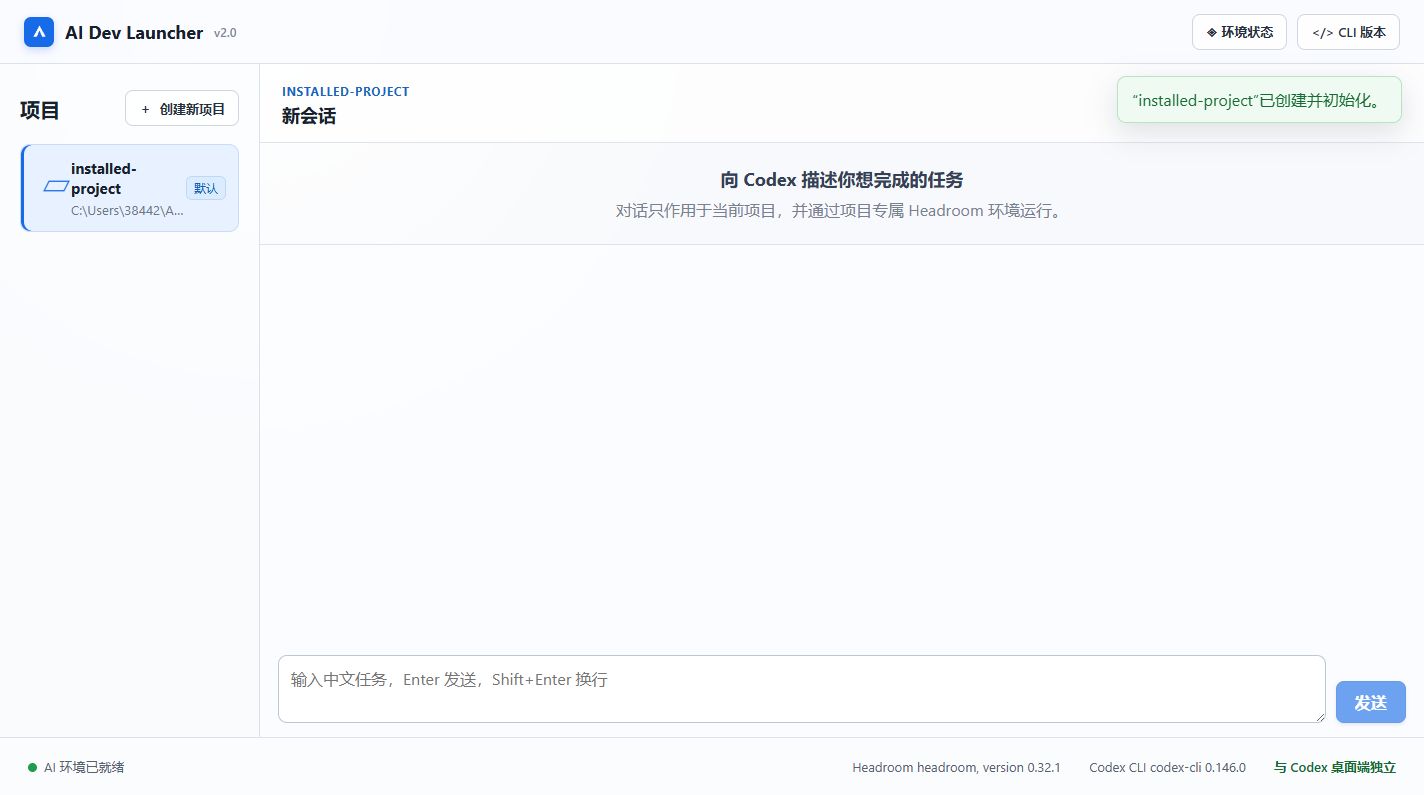
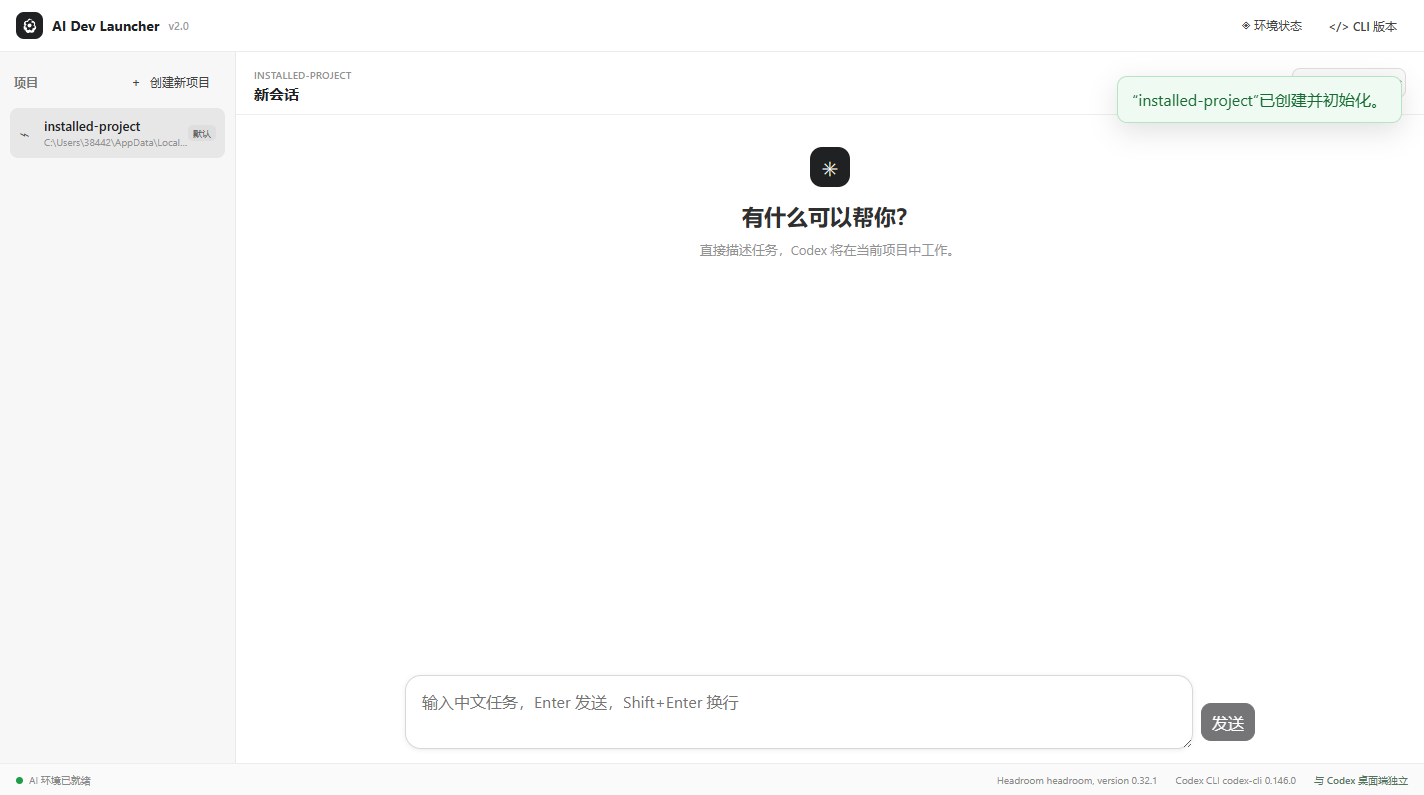
style: simplify workspace with Codex-inspired design

diff --git a/desktop/src/styles.css b/desktop/src/styles.css
@@ -297,3 +297,66 @@ h1, h2, p { margin-top: 0; }
 .stats-panel > div > span { color: #687586; }
 .stats-panel > div > div { margin-top: 10px; padding: 12px; display: grid; gap: 3px; border: 1px solid #dce3ec; border-radius: 8px; background: white; }
 .stats-panel small { color: #778291; }
+
+/* Codex-inspired compact workspace */
+:root { color: #202123; background: #f7f7f8; }
+body { min-width: 900px; min-height: 560px; }
+.app-shell { grid-template-rows: 52px minmax(0, 1fr) 32px; background: #fff; }
+.app-header { padding: 0 16px; background: #fff; border-bottom-color: #ececec; }
+.brand { gap: 9px; font-size: 14px; }
+.brand small { color: #9b9b9b; font-size: 11px; }
+.app-icon { width: 27px; height: 27px; border-radius: 8px; background: #202123; box-shadow: none; }
+.app-icon svg { width: 19px; fill: #fff; }
+.app-header nav { gap: 4px; }
+.button { min-height: 38px; border-radius: 9px; padding: 0 14px; font-weight: 500; }
+.button.primary { color: #fff; background: #202123; border-color: #202123; box-shadow: none; }
+.button.primary:hover:not(:disabled) { background: #353536; }
+.button.secondary { color: #424242; background: transparent; border-color: transparent; }
+.button.secondary:hover:not(:disabled) { background: #f2f2f2; border-color: transparent; }
+.button.compact { min-height: 32px; padding: 0 10px; font-size: 12px; }
+.workspace { grid-template-columns: 236px minmax(0, 1fr); }
+.project-sidebar { padding: 14px 10px; border-right-color: #e9e9e9; background: #f7f7f8; }
+.sidebar-heading { margin-bottom: 10px; padding: 0 4px; }
+.sidebar-heading h2 { font-size: 12px; color: #777; font-weight: 600; }
+.sidebar-heading .button { font-size: 12px; }
+.project-list { gap: 2px; }
+.project-row { min-height: 50px; grid-template-columns: 25px minmax(0, 1fr) auto; padding: 7px 9px; border: 0; border-radius: 8px; }
+.project-row:hover { background: #ededee; border-color: transparent; }
+.project-row.selected { background: #e7e7e8; border-color: transparent; box-shadow: none; }
+.folder-icon { color: #555; font-size: 18px; transform: none; }
+.project-copy { gap: 1px; }
+.project-copy strong { font-size: 13px; font-weight: 550; }
+.project-copy small { color: #929292; font-size: 10px; }
+.badge { padding: 2px 5px; color: #666; background: #dedede; border: 0; border-radius: 5px; font-size: 9px; }
+.chat-workspace { background: #fff; }
+.conversation-header { min-height: 58px; padding: 10px 18px; border-bottom-color: #ededed; background: #fff; }
+.conversation-header h2 { margin-top: 1px; font-size: 15px; font-weight: 600; }
+.workspace-kicker { color: #929292; font-size: 10px; font-weight: 600; letter-spacing: .02em; }
+.conversation-meta { gap: 12px; color: #8a8a8a; font-size: 11px; }
+.permission-control label { color: #777; font-size: 11px; }
+.permission-control select { height: 30px; border-color: #dedede; border-radius: 8px; color: #333; background: #fafafa; }
+.risk-banner { padding: 7px 18px; color: #8a5a16; background: #fffaf0; border-bottom-color: #f1e5ca; font-size: 11px; }
+.message-list { width: 100%; padding: 32px max(24px, calc((100% - 820px) / 2)); gap: 22px; }
+.chat-empty { color: #929292; gap: 10px; }
+.chat-empty strong { color: #2f2f2f; font-size: 22px; font-weight: 550; }
+.chat-empty span { font-size: 13px; }
+.chat-mark { width: 40px; height: 40px; margin: 0 auto 4px; display: grid; place-items: center; border-radius: 12px; color: white; background: #202123; font-size: 20px; }
+.message { width: min(100%, 820px); max-width: 820px; }
+.message > span { color: #8d8d8d; font-size: 10px; font-weight: 600; }
+.message pre { padding: 0; border: 0; border-radius: 0; background: transparent; color: #292929; font-size: 14px; line-height: 1.65; }
+.message.user { width: auto; max-width: min(70%, 680px); align-self: flex-end; }
+.message.user pre { padding: 10px 14px; color: #292929; background: #f1f1f1; border: 0; border-radius: 16px; }
+.message.tool pre { padding: 12px 14px; border: 1px solid #e4e4e4; border-radius: 10px; background: #f7f7f7; font-size: 12px; }
+.message.status pre { padding: 4px 9px; background: #f3f3f3; color: #777; border-radius: 8px; }
+.composer { padding: 10px max(24px, calc((100% - 850px) / 2)) 14px; gap: 8px; border-top: 0; background: linear-gradient(transparent, #fff 18%); }
+.composer textarea { min-height: 54px; max-height: 150px; padding: 15px 16px; border-color: #d8d8d8; border-radius: 16px; background: #fff; box-shadow: 0 1px 5px rgba(0,0,0,.08); }
+.composer textarea:focus { border-color: #a9a9a9; box-shadow: 0 1px 7px rgba(0,0,0,.1); }
+.composer .button { width: 54px; min-height: 38px; margin-bottom: 8px; padding: 0 10px; border-radius: 10px; }
+.status-bar { grid-template-columns: 1fr auto auto auto; gap: 18px; padding: 0 16px; background: #fafafa; border-top-color: #ededed; color: #8a8a8a; font-size: 10px; }
+.status-bar strong { color: #52745c; font-weight: 500; }
+.status { width: 7px; height: 7px; margin-right: 6px; }
+.dialog-backdrop { background: rgba(0,0,0,.25); backdrop-filter: blur(2px); }
+.dialog { border-color: #dedede; border-radius: 14px; box-shadow: 0 20px 60px rgba(0,0,0,.18); }
+.dialog header, .dialog footer { border-color: #ededed; }
+.dialog input:focus { border-color: #777; box-shadow: 0 0 0 3px rgba(0,0,0,.07); }
+.toast { border-radius: 10px; box-shadow: 0 8px 28px rgba(0,0,0,.12); }

diff --git a/desktop/src/components/ChatWorkspace.vue b/desktop/src/components/ChatWorkspace.vue
@@ -75,7 +75,7 @@ onUnmounted(() => dispose?.());
   <section class="chat-workspace">
     <div class="conversation"><header class="conversation-header"><div><span class="workspace-kicker">{{ project.name }}</span><h2>{{ active?.name }}</h2></div><div class="conversation-meta"><span>模型：Codex 默认</span><div class="permission-control"><label>权限<select v-model="permission" :disabled="!!runningTask"><option value="standard">标准模式</option><option value="full">完全访问</option></select></label></div></div></header>
       <div v-if="permission === 'full'" class="risk-banner">完全访问允许 Codex 操作项目外文件且不询问审批，请确认当前任务可信。</div>
-      <div class="message-list" data-testid="message-list"><div v-if="!active?.messages.length" class="chat-empty"><strong>向 Codex 描述你想完成的任务</strong><span>对话只作用于当前项目，并通过项目专属 Headroom 环境运行。</span></div><article v-for="message in active?.messages ?? []" :key="message.id" :class="['message', message.role]"><span>{{ message.role === "user" ? "你" : message.role === "assistant" ? "Codex" : message.role === "tool" ? "工具" : "状态" }}</span><pre>{{ message.text }}</pre></article></div>
+      <div class="message-list" data-testid="message-list"><div v-if="!active?.messages.length" class="chat-empty"><div class="chat-mark">✳</div><strong>有什么可以帮你？</strong><span>直接描述任务，Codex 将在当前项目中工作。</span></div><article v-for="message in active?.messages ?? []" :key="message.id" :class="['message', message.role]"><span>{{ message.role === "user" ? "你" : message.role === "assistant" ? "Codex" : message.role === "tool" ? "工具" : "状态" }}</span><pre>{{ message.text }}</pre></article></div>
       <div v-if="error" class="chat-error">{{ error }}</div>
       <footer class="composer"><textarea v-model="prompt" data-testid="chat-prompt" placeholder="输入中文任务，Enter 发送，Shift+Enter 换行" @keydown.enter.exact.prevent="send"></textarea><button v-if="runningTask" class="button danger solid" data-testid="stop-chat" @click="stop">停止</button><button v-else class="button primary" data-testid="send-chat" :disabled="runtime?.status !== 'ready' || !prompt.trim()" @click="send">发送</button></footer>
     </div>

diff --git a/desktop/src/components/AppIcon.vue b/desktop/src/components/AppIcon.vue
@@ -1,7 +1,7 @@
 <template>
   <span class="app-icon" aria-hidden="true">
     <svg viewBox="0 0 24 24">
-      <path d="M5 18 12 5l7 13h-3.8L12 11l-3.2 7H5Z" />
+      <path d="M12 3.25a3.6 3.6 0 0 1 3.52 2.85 3.6 3.6 0 0 1 3.23 5.4 3.6 3.6 0 0 1-.28 6.28 3.6 3.6 0 0 1-5.68 2.86 3.6 3.6 0 0 1-5.94-2.43 3.6 3.6 0 0 1-1.14-6.18A3.6 3.6 0 0 1 9.2 6.1 3.6 3.6 0 0 1 12 3.25Zm0 2a1.6 1.6 0 0 0-1.55 1.2l-.3 1.15-1.17-.2a1.6 1.6 0 0 0-1.52 2.65l.8.88-.9.78a1.6 1.6 0 0 0 .5 2.7l1.12.4-.28 1.16a1.6 1.6 0 0 0 2.58 1.6l.9-.77.78.9a1.6 1.6 0 0 0 2.82-1.05l-.01-1.2 1.2-.02a1.6 1.6 0 0 0 .98-2.87l-.97-.7.68-.98a1.6 1.6 0 0 0-1.7-2.43l-1.16.3-.32-1.16A1.6 1.6 0 0 0 12 5.25Zm0 4.15a2.6 2.6 0 1 1 0 5.2 2.6 2.6 0 0 1 0-5.2Z" />
     </svg>
   </span>
 </template>

diff --git a/desktop/tests/App.test.ts b/desktop/tests/App.test.ts
@@ -52,7 +52,7 @@ describe("App v2 Phase 1", () => {
     vi.mocked(window.launcher.listProjects).mockResolvedValue({ projects: [project], default_project: "my-app" });
     const view = await render();
     expect(view.host.textContent).toContain("与 Codex 桌面端独立");
-    expect(view.host.textContent).toContain("向 Codex 描述你想完成的任务");
+    expect(view.host.textContent).toContain("有什么可以帮你？");
     expect(view.host.textContent).toContain("标准模式");
     view.unmount();
   });

diff --git a/desktop/src/components/ProjectList.vue b/desktop/src/components/ProjectList.vue
@@ -31,7 +31,7 @@ defineEmits<{
         role="listitem"
         @click="$emit('select', project)"
       >
-        <span class="folder-icon" aria-hidden="true">▱</span>
+        <span class="folder-icon" aria-hidden="true">⌁</span>
         <span class="project-copy">
           <strong>{{ project.name }}</strong>
           <small>{{ project.path }}</small>

diff --git a/tests/test_cli.py b/tests/test_cli.py
@@ -12,7 +12,7 @@ def test_version():
     result = runner.invoke(app, ["--version"])
 
     assert result.exit_code == 0
-    assert "AI Dev Launcher 2.0.2" in result.stdout
+    assert "AI Dev Launcher 2.0.3" in result.stdout
 
 
 def test_no_args_shows_help():

diff --git a/src/ai_dev_launcher/__init__.py b/src/ai_dev_launcher/__init__.py
@@ -1,3 +1,3 @@
 """AI Dev Launcher."""
 
-__version__ = "2.0.2"
+__version__ = "2.0.3"

diff --git a/RELEASE_NOTES_2.0.3.md b/RELEASE_NOTES_2.0.3.md
@@ -1,0 +1,11 @@
+# AI Dev Launcher v2.0.3
+
+本次更新将工作区调整为更简约的 Codex 风格：
+
+- 使用克制的黑白灰配色与单色应用图标。
+- 缩窄顶部、项目栏和底部状态栏，减少视觉干扰。
+- 简化项目卡片、按钮、权限选择和弹窗样式。
+- 助手回复改为开放式内容排版，用户消息使用浅灰气泡。
+- 输入框改为居中的底部悬浮式布局。
+- 保持所有现有功能以及与 Codex 桌面端的独立性。
+
